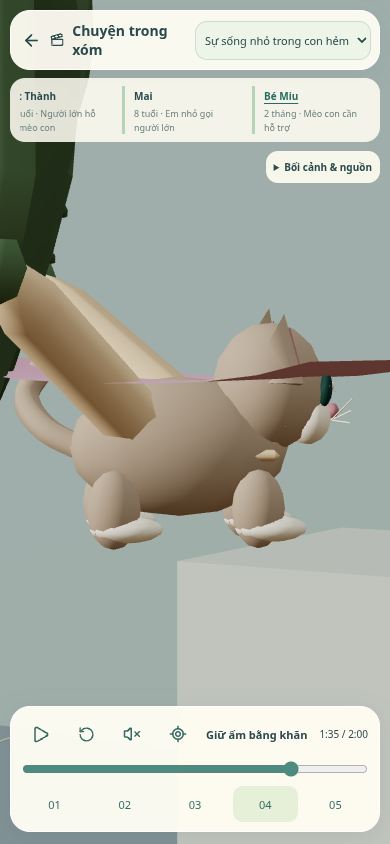
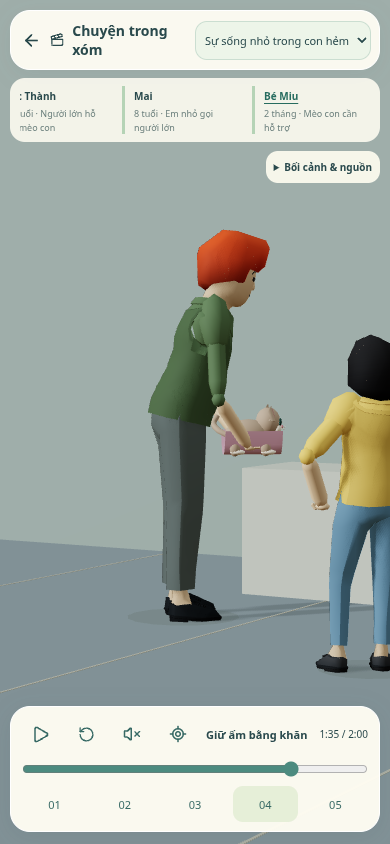
Record visual failure and corrected carried pet framing with actual before-after images

diff --git a/CODEX_HANDOFF.md b/CODEX_HANDOFF.md
@@ -21,7 +21,7 @@
 
 **H5a đã chốt offline:** `feat/h5-peer-admission`, source`143f94c`, đã hợp nhất asset`15e89fa` ở`c6b7cd1` và chạy lại74/74/type/lint/assets/build/compiled chat+liveness, [protocol](docs/validation/peer-sharing-protocol-v1.json)/[evidence](docs/validation/peer-sharing-2026-10-29.json).74/74suite/type/lint/assets/build và compiled chat/liveness đạt; benchmark lặp cùng SHA`1a91bf99…`. Ba offer biên tập →6heard →3advice; sai recipient/JSON/partial/pause/cancel/transit/replay giả bị chặn, TTL/decay/top-K/clock fence và source-state isolation đạt. Module không vào Worker bundle, không runtime P2P/DB/schema/model promotion. Tiếp H5b durable offer/receipt authenticity + inbox CAS/recipient guards/evaluation, không dùng JSON offline làm authority; giữ riêng rig/Studio/QA auth/cron của agent asset.
 
-**Đồ họa city + Studio đã đạt local:** [evidence](docs/validation/graphics-interactions-2026-10-29.json)/[8 ảnh thật](docs/screenshots/graphics-interactions/manifest.json), renderer `3b3b3db`: 81/81 suite/type/lint/assets/build, 10 interaction + 15 activity + 2 wardrobe + 2 paused jump LOD + 8 Studio/40 shot + 4 scenario/21 voice đạt. Crowd/wardrobe dùng cùng 5 skin/palette mới; bỏ renderer người ghép cũ, idle warm không mất người, CPU picker theo pose GPU nội suy 8 mẫu; ≤8 skeletal controllers, giữ footprint 4.8/9.2. Pose real-time, gait/pedal theo distance, near/crowd giữ cùng jump lift; reset constant tracks trước contact IK. Follow giữ người đã chọn, drag/pinch không tap, Studio focus cả người/mèo và reset camera sau zoom/shot/restart. Wardrobe lưu màu khi pause đúng model. Không đổi world/physics/navigation/memory/reward; IK/animation không là training hoặc receipt. QA `3a04626` đã qua 84suite/full gates/API; bản cuối `8af40bb` thêm integration guard mới đang kiểm trước push. Logs `work/graphics-interactions-2026-10-29/`; GPU thật/soak và authenticated remote acceptance còn riêng.
+**Đồ họa city + Studio đã đạt local:** [evidence](docs/validation/graphics-interactions-2026-10-29.json)/[9 ảnh before/after](docs/screenshots/graphics-interactions/manifest.json), renderer `3b3b3db`: 81/81 suite/type/lint/assets/build, 10 interaction + 15 activity + 2 wardrobe + 2 paused jump LOD + 8 Studio/40 shot + 4 scenario/21 voice đạt. Crowd/wardrobe dùng cùng 5 skin/palette mới; bỏ renderer người ghép cũ, idle warm không mất người, CPU picker theo pose GPU nội suy 8 mẫu; ≤8 skeletal controllers, giữ footprint 4.8/9.2. Pose real-time, gait/pedal theo distance, near/crowd giữ cùng jump lift; reset constant tracks trước contact IK. Follow giữ người đã chọn, drag/pinch không tap, Studio focus cả người/mèo và reset camera sau zoom/shot/restart. Wardrobe lưu màu khi pause đúng model. Không đổi world/physics/navigation/memory/reward; IK/animation không là training hoặc receipt. QA `3a04626` đã qua 84suite/full gates/API; bản cuối `8af40bb` thêm integration guard mới đang kiểm trước push. Logs `work/graphics-interactions-2026-10-29/`; GPU thật/soak và authenticated remote acceptance còn riêng.
 
 
 
@@ -43,3 +43,5 @@
 - **Cloudflare QA:** [runbook](docs/CLOUDFLARE_AGENT_QA.md)/[evidence](docs/validation/qa-observability-2026-10-29.json). Source5749ce4, Buildd344afb0 success và native deploymentb25456fe/versiond58255ac100% đã đối chiếu; metadata/logs/schema aggregate/D1/một cron/Access owner+scoped token xác minh bằng connector hiện hành. Scheduled invocation mới outcomeok,3stage và cron_result/status200/updated10 cùng request/version. Trạng thái bền vững đang tăng trong cửa sổ đo; không suy24/7/model gain. Management connector hiện dùng được; Access HTTP credential vẫn chưa có, HEAD403 không chứng minh được auth/runtime. Chưa authenticated browser/GPU/soak/independent review hoặc promote main/staging/prod. Không mở Access, tìm token cũ hoặc tạo scheduler khác. QA4377 mới của agent graphics/H6 cũng Buildefa85b42 success; deployment55bdb507/versionf77411ba100%, native Cron14:10/status200/updated10 và3stage đồng request/version đã xác minh riêng.
 
 **Môi trường local:** Logs nghiệm thu`work/acceptance-2026-10-29/`, H3b`work/h3b-2026-10-29/`; raw synthetic study đã track ở`docs/validation/h3b-v1/`, output local riêng`.sites-runtime/training/h3b-v1-*.json`. Không có raw world/thoại/memory trong model. SQLite test nay inject cùng clock cho julianday/server, không phụ thuộc fixed anchor đã qua. Preview5340 đã dừng sau nghiệm thu, dùng DB riêng`/tmp/xom-acceptance-20261029-studio`; renderer source3b3b3db và guard build3cafc55 xem `dist/.openai/source.json`. Dừng đúng server bằng`work/acceptance-2026-10-29/stop-preview.py`, giữ DB và đưa cache`dist/server/.wrangler` khỏi dist trước build/package. Không để browser/launcher/scheduler cũ chạy trùng.21OGG Studio đã track/hash-pinned; model/venv authoring không có trong runtime. Gói chuẩn bị không đồng nghĩa đã phát hành hoặc nhân vật production đang chạy code mới.
+
+**Followup Studio đang chốt:** branch `fix/studio-carrier-focus-20261029`, renderer `a404bf4`, regression `42d4c3c`. Xem ảnh Miu trước/sau: telemetry cat-only từng pass nhưng camera lọt vào tay người bế và khăn bị giữ scale cũ. Đã fit cả người đang đỡ/bế, cập nhật dimensions đạo cụ mỗi frame, khăn không che mặt và palm đỡ dưới bụng (surface gap tối đa0.005617unit).81suite/direct geometry/10browser controls đạt; đang chạy lại8Studio/voice và gate QA. Giữ local navigation timeout trong evidence, chưa gọi soak/reliability PASS. QA4377ed7 đã build success, nhưng chưa chứa followup; phải push sau gate và ghi exact source mới.
